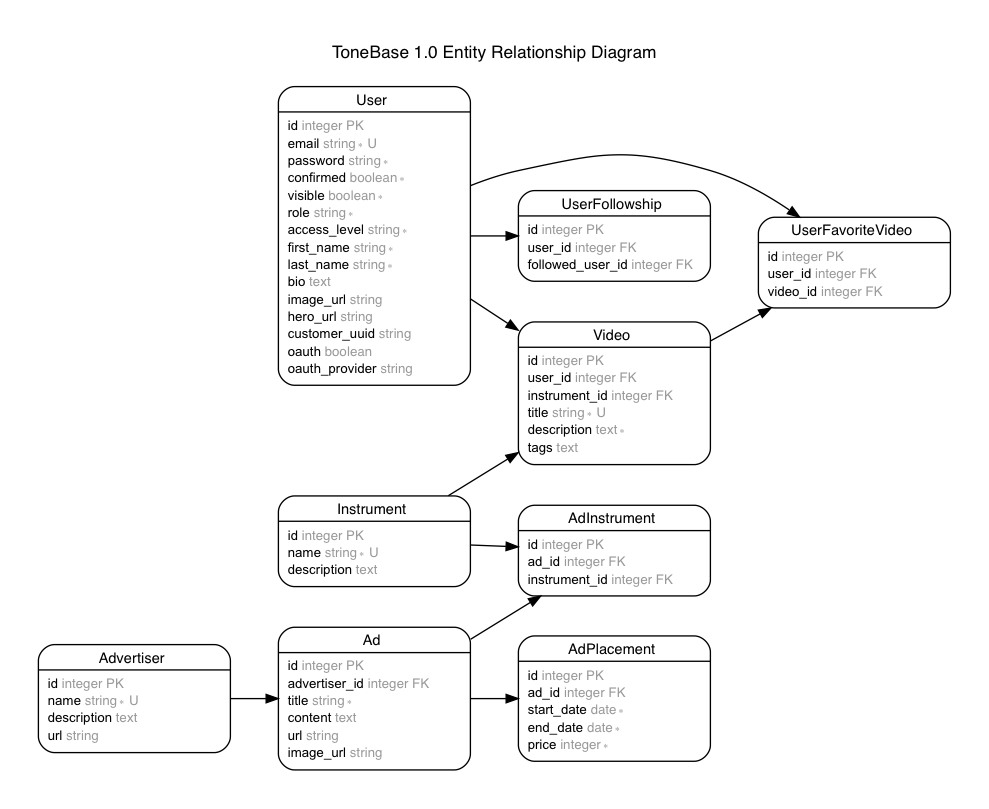
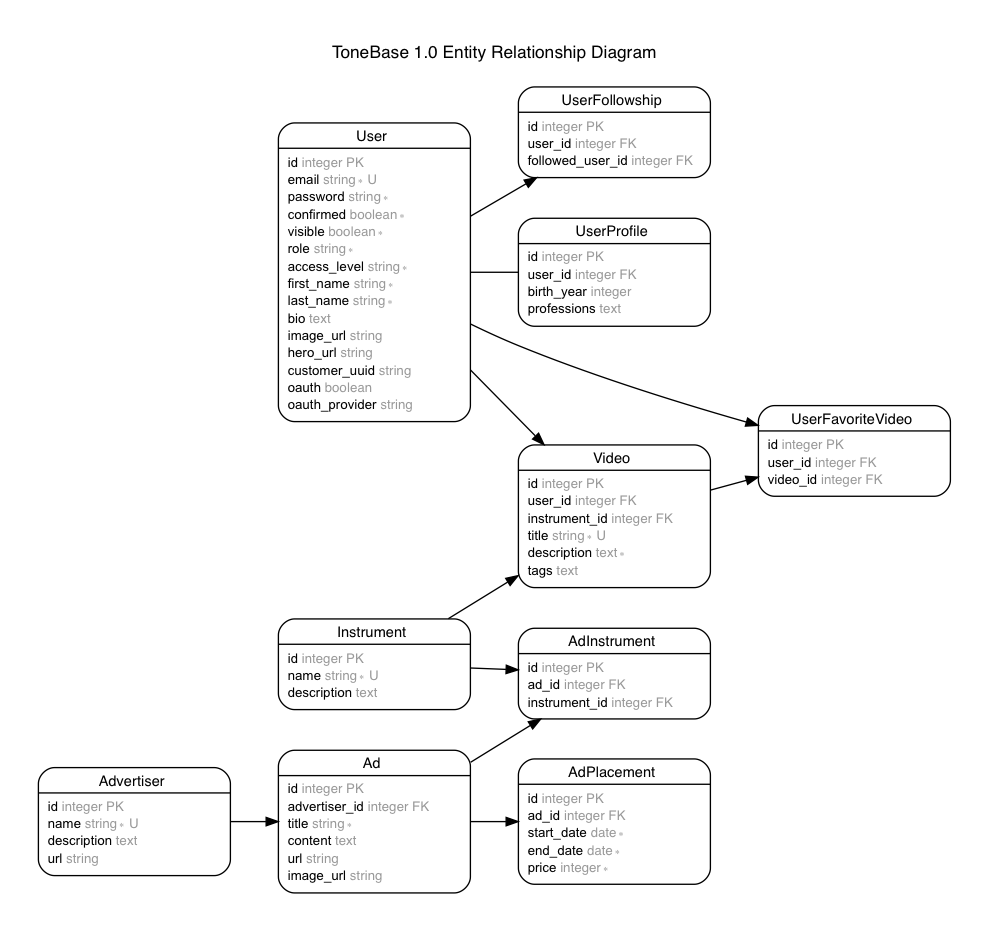
Test creation of nested association

Changed region(s): [[0.0303, 0.0309, 0.9707, 0.958], [0.7583, 0.2472, 0.9707, 0.4017], [0.455, 0.4326, 0.4853, 0.4635]]

diff --git a/spec/support/api/v1/endpoints/create.rb b/spec/support/api/v1/endpoints/create.rb
@@ -3,6 +3,7 @@ require_relative './create/uniqueness_validation' # allows controller spec to av
 
 # @param [ApplicationRecord] model_class
 # @param [Hash] resource_params For initializing the resource. Pass this from inside a block so you can use other variables in its contstruction.
+# @param [Hash] also_serialize Optionally provide methods to also be serialized when checking for their persistance. Do this to test persistance of nested attributes. Requires a matching instance method, which you will have to also define in the model class.
 # @example
 #
 #   it_behaves_like "a create endpoint", Ad  do
@@ -14,6 +15,21 @@ require_relative './create/uniqueness_validation' # allows controller spec to av
 #         content: "Fendie sitars are the best.",
 #         url: "https://www.fendie.com/promo",
 #         image_url: "https://my-bucket.s3.amazonaws.com/my-dir/my-image.jpg"
+#       }
+#     }
+#   end
+#
+#
+#   it_behaves_like "a create endpoint", User  do
+#     let(:also_serialize){ [:user_profile_attributes] }
+#     let(:resource_params){
+#       {
+#         email: "avg.joe@gmail.com",
+#         password: "abc123",
+#         user_profile_attributes:{
+#           birth_year: 1975,
+#           professions: ["Student", "Performer", "Instructor"]
+#         }
 #       }
 #     }
 #   end
@@ -34,11 +50,14 @@ shared_examples_for "a create endpoint" do |model_class|
 
       it "should create a resource and persist all the relevant attributes" do
         response
-        persisted_attributes = model_class.last.serializable_hash.deep_symbolize_keys
-        persisted_attributes.reject!{|k,_| [:id, :created_at, :updated_at].include?(k)}
+
+        methods = defined?(also_serialize) ? also_serialize : []
+        persisted_attributes = model_class.last.serializable_hash(except: [:id, :created_at, :updated_at], methods: methods).deep_symbolize_keys
+
         persisted_attributes.each do |k,v|
           persisted_attributes[k] = persisted_attributes[k].to_s if v.class == Date # convert Sat, 01 Jul 2017 to "2017-07-01"
         end
+
         expect(persisted_attributes).to include(resource_params)
       end
     end

diff --git a/app/models/user.rb b/app/models/user.rb
@@ -41,4 +41,9 @@ class User < ApplicationRecord
   def music_profile
     {to:"DO"}
   end
+
+  # Work-around to enable "create" endpoint spec to validate persistance of nested resources!
+  def user_profile_attributes
+    user_profile.serializable_hash(only: [:birth_year, :professions])
+  end
 end

diff --git a/spec/controllers/api/v1/users_controller_spec.rb b/spec/controllers/api/v1/users_controller_spec.rb
@@ -56,6 +56,7 @@ RSpec.describe Api::V1::UsersController, type: :controller do
 
   describe "POST #create" do
     it_behaves_like "a create endpoint", User do
+      let(:also_serialize){ [:user_profile_attributes] }
       let(:resource_params){
         {
           email: "avg.joe@gmail.com",

diff --git a/CREDITS.md b/CREDITS.md
@@ -39,3 +39,5 @@
   + [HTTP Status Codes](https://httpstatuses.com/)
   + [Should Validate Numericality](https://github.com/thoughtbot/shoulda-matchers/blob/master/lib/shoulda/matchers/active_model/validate_numericality_of_matcher.rb)
   + [Association inverses](https://stackoverflow.com/a/4783112/670433)
+  + [Nested Attributes](http://api.rubyonrails.org/classes/ActiveRecord/NestedAttributes/ClassMethods.html)
+  + [Serializable Hash](http://api.rubyonrails.org/classes/ActiveModel/Serialization.html)
